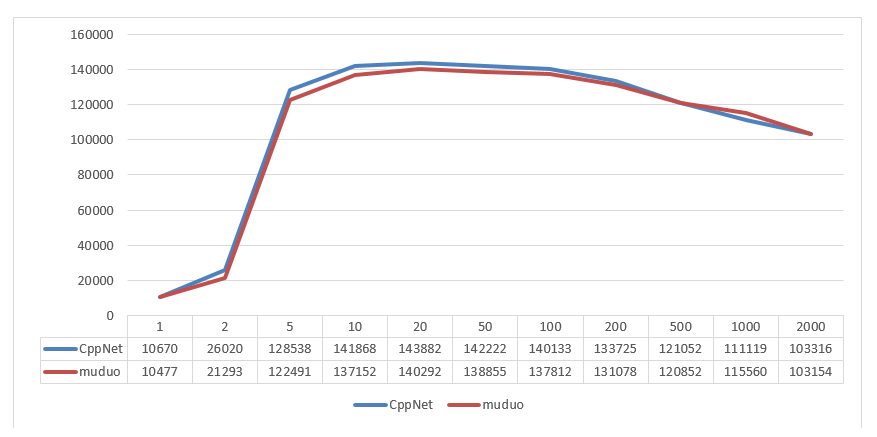
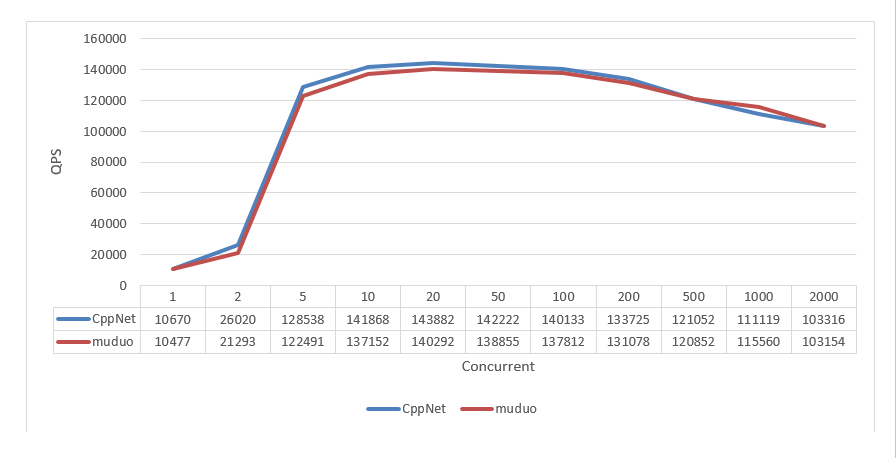
update readme.

diff --git a/README.md b/README.md
@@ -82,7 +82,7 @@ Simple use examples can be seen [CppNetServer](/CppNetSev/CppNetServer.cpp) and 
 Other simples are in [test](/test). [echo](/test/echo): The test program of echo with 10000 connection. [http](/test/http): A simple HTTP server is implemented with reference to muduo.
 ## Efficiency
 Only use apache ab test HTTP echo，comparison with Muduo. The command executed is：ab -kc[1-2000] -n100000 http://127.0.0.1:8000/hello.
-<p align="left"><img width="877" src="./doc/image/mudo_vs_cppnet.png" alt="mudo vs cppnet"></p>
+<p align="left"><img width="896" src="./doc/image/mudo_vs_cppnet.png" alt="mudo vs cppnet"></p>
 
 ## Build(Windows)
 

diff --git a/README_cn.md b/README_cn.md
@@ -81,7 +81,7 @@ CppNet是一个封装在Tcp协议上的Proactor模式multi-thread C++11网络库
 其他示例在 [test](/test) 目录下，[echo](/test/echo)实现了10000连接量的echo的测试程序，[http](/test/http)参照muduo实现了一个简单的http服务器。
 ## 效率
 目前只用ab做了http echo测试，与muduo做了对比，执行的命令为：ab -kc[1-2000] -n100000 http://127.0.0.1:8000/hello.
-<p align="left"><img width="877" src="./doc/image/mudo_vs_cppnet.png" alt="mudo vs cppnet"></p>
+<p align="left"><img width="896" src="./doc/image/mudo_vs_cppnet.png" alt="mudo vs cppnet"></p>
 
 
 ## 编译(Windows)
